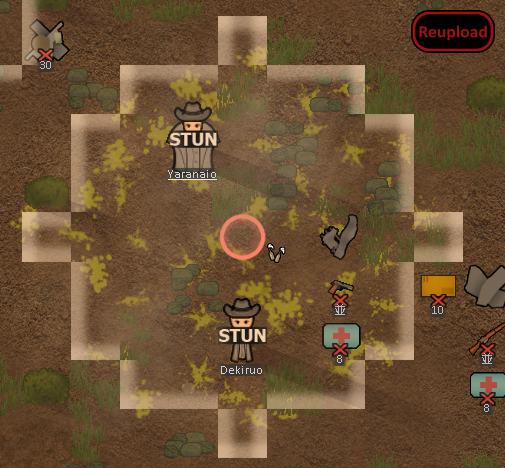
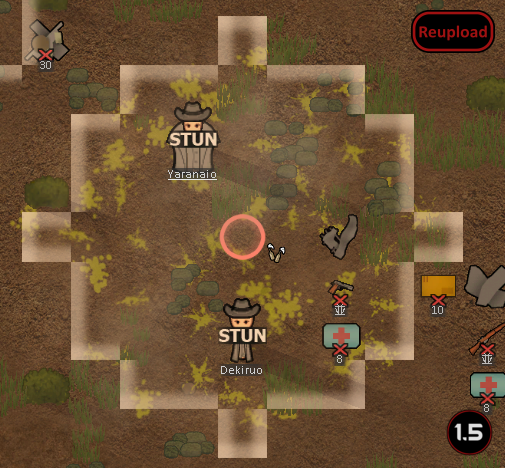
Mod updated for 1.5 and passed autotests

Changed region(s): [[0.8614, 0.8675, 0.9802, 0.9872]]

diff --git a/README.md b/README.md
@@ -29,11 +29,13 @@ You can freely modify and redistribute this MOD
 
 -  See if the the error persists if you just have this mod and its requirements active.
 -  If not, try adding your other mods until it happens again.
--  Post your error-log using https://steamcommunity.com/workshop/filedetails/?id=818773962]HugsLib and command Ctrl+F12
+-  Post your error-log using https://steamcommunity.com/workshop/filedetails/?id=818773962]HugsLib or the standalone https://steamcommunity.com/sharedfiles/filedetails/?id=2873415404]Uploader and command Ctrl+F12
 -  For best support, please use the Discord-channel for error-reporting.
 -  Do not report errors by making a discussion-thread, I get no notification of that.
 -  If you have the solution for a problem, please post it to the GitHub repository.
+-  Use https://github.com/RimSort/RimSort/releases/latest]RimSort to sort your mods
 
 
 
+https://steamcommunity.com/sharedfiles/filedetails/changelog/2464778085]![Image](https://img.shields.io/github/v/release/emipa606/VomitBomb?label=latest%20version&style=plastic&color=9f1111&labelColor=black)
 
